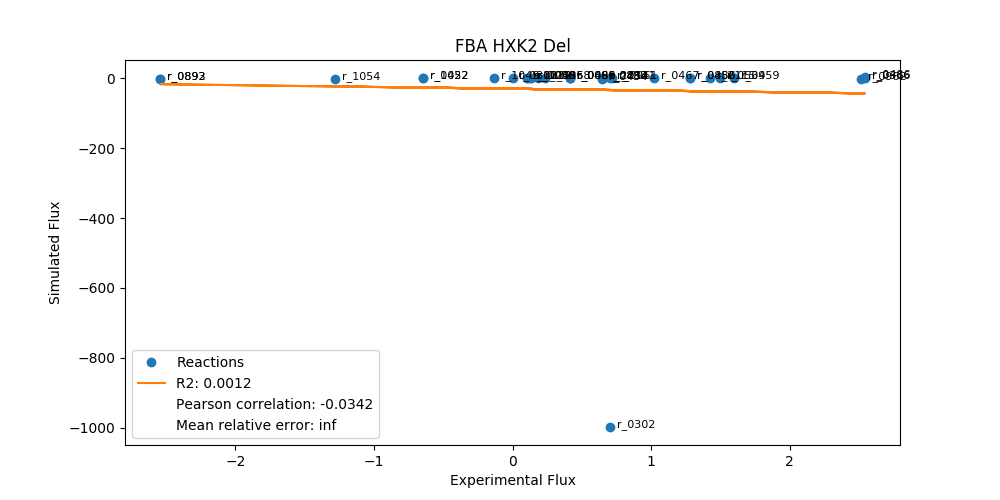
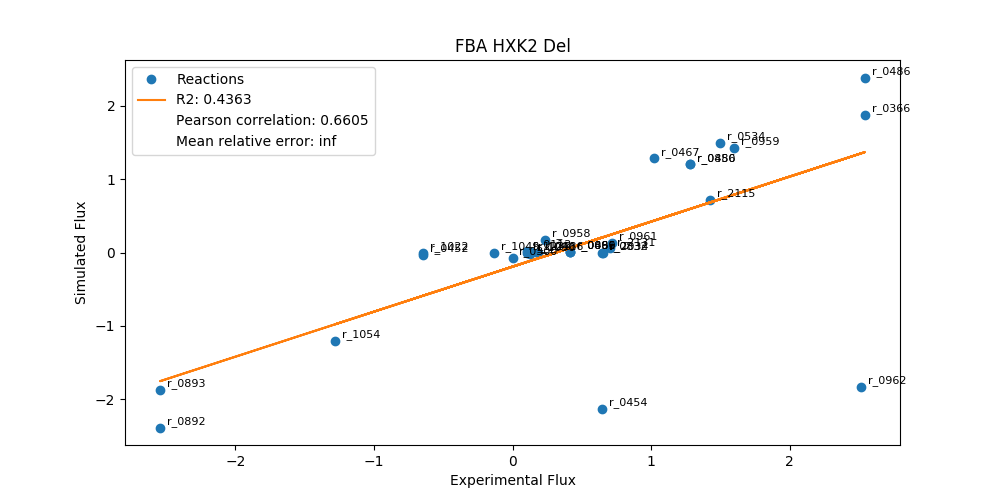
Updated case 14 report.

diff --git a/case14_jnotebook.py b/case14_jnotebook.py
@@ -10,8 +10,38 @@ import nbformat as nbf
 nb = nbf.v4.new_notebook()
 
 text = """\
-# Case 14 Report
+# Case 14 Report (Raghevendran et al, 2004)
+
 This report contains the results with case 14 simulations.
+
+Paper: [*Phenotypic characterization of glucose repression mutants of Saccharomyces cerevisiae using experiments with 13 C-labelled glucose*](http://onlinelibrary.wiley.com/doi/10.1002/yea.1136/abstract)
+
+**Abstract**
+In the field of metabolic engineering and functional genomics, methods for analysis of
+metabolic fluxes in the cell are attractive as they give an overview of the phenotypic
+response of the cells at the level of the active metabolic network. This is unlike several
+other high-throughput experimental techniques, which do not provide information
+about the integrated response a specific genetic modification has on the cellular
+function. In this study we have performed phenotypic characterization of several
+mutants of the yeast Saccharomyces cerevisiae through the use of experiments with
+13
+C-labelled glucose. Through GC–MS analysis of the 13 C incorporated into the amino
+acids of cellular proteins, it was possible to obtain quantitative information on the
+function of the central carbon metabolism in the different mutants. Traditionally,
+such labelling data have been used to quantify metabolic fluxes through the use of a
+suitable mathematical model, but here we show that the raw labelling data may also
+be used directly for phenotypic characterization of different mutant strains. Different
+glucose derepressed strains investigated employed are the disruption mutants reg1,
+hxk2, grr1, mig1 and mig1mig2 and the reference strain CEN.PK113-7D. Principal
+components analysis of the summed fractional labelling data show that deleting the
+genes HXK2 and GRR1 results in similar phenotype at the fluxome level, with a
+partial alleviation of glucose repression on the respiratory metabolism. Furthermore,
+deletion of the genes MIG1, MIG1/MIG2 and REG1 did not result in a significant
+change in the phenotype at the fluxome level. 
+
+**NOTES**
+- From all the knockouts in this study ('REG1', 'MIG1', 'MIG2', 'GRR1', 'HXK2') only the latter had a gene correspondence in the model.
+
 """
 
 code = """\

diff --git a/case_14.py b/case_14.py
@@ -43,6 +43,11 @@ class Case14 (PhenomenalySim):
 
         return sub_exp_fluxes, reactions
 
+    def getDFWithoutExtremeFluxes (self, dataframe, column_index = 1, val = 900):
+        df = dataframe[(dataframe.ix[:, column_index] > -val) & (dataframe.ix[:, column_index] < val)]
+
+        return df.astype('float')
+
     def createDatasetExpVsSimul (self, exp_fluxes, sim_fluxes):
         dsim = sim_fluxes.copy()
         df = pd.concat([exp_fluxes, sim_fluxes], axis = 1, join = 'inner')
@@ -176,6 +181,7 @@ plt.close('all')
 
 #FBA
 wt_fba_res, wt_fba_exp_sim, wt_fba_exp_sim_errors = case14.simulationPipeline(exp_dataset.ix[:,0], o2_lb = wt_o2_lb, type = 'fba', res_exists = True, fname = 'Results/Case 14/res_fba_wt_case14.sav')
+wt_fba_exp_sim_errors = case14.getDFWithoutExtremeFluxes(wt_fba_exp_sim_errors) #without extreme fluxes (for plotting)
 case14.plotExpVsSim(wt_fba_exp_sim_errors, save_fig_path = 'Results/Case 14/wt_fba_exp_sim_plot.png', title = 'FBA Wild Type')
 plt.close('all')
 
@@ -202,6 +208,7 @@ plt.close('all')
 
 #FBA
 hxk2_fba_res, hxk2_fba_exp_sim, hxk2_fba_exp_sim_errors = case14.simulationPipeline(exp_dataset.ix[:,5], o2_lb = hxk2_02_lb, type = 'fba', res_exists = True, fname = 'Results/Case 14/res_fba_hxk2_case14.sav')
+hxk2_fba_exp_sim_errors = case14.getDFWithoutExtremeFluxes(hxk2_fba_exp_sim_errors) #without extreme fluxes (for plotting)
 case14.plotExpVsSim(hxk2_fba_exp_sim_errors, save_fig_path = 'Results/Case 14/hxk2_fba_exp_sim_plot.png', title = 'FBA HXK2 Del')
 plt.close('all')
 
@@ -246,15 +253,15 @@ hxk2_fva_res, hxk2_fva_exp_sim, _ = case14.simulationPipeline(exp_dataset.ix[:,5
 # for i in tqdm(range(10)):
 #     time.sleep(3)
 #
-
-from progress.bar import Bar
-
-bar = Bar('Processing', max=20)
-for i in range(20):
-    print('Do stuff')
-    bar.next()
-bar.finish()
 #
+# from progress.bar import Bar
+#
+# bar = Bar('Processing', max=20)
+# for i in range(20):
+#     print('Do stuff')
+#     bar.next()
+# bar.finish()
+# #
 #
 #
 # import progressbar
